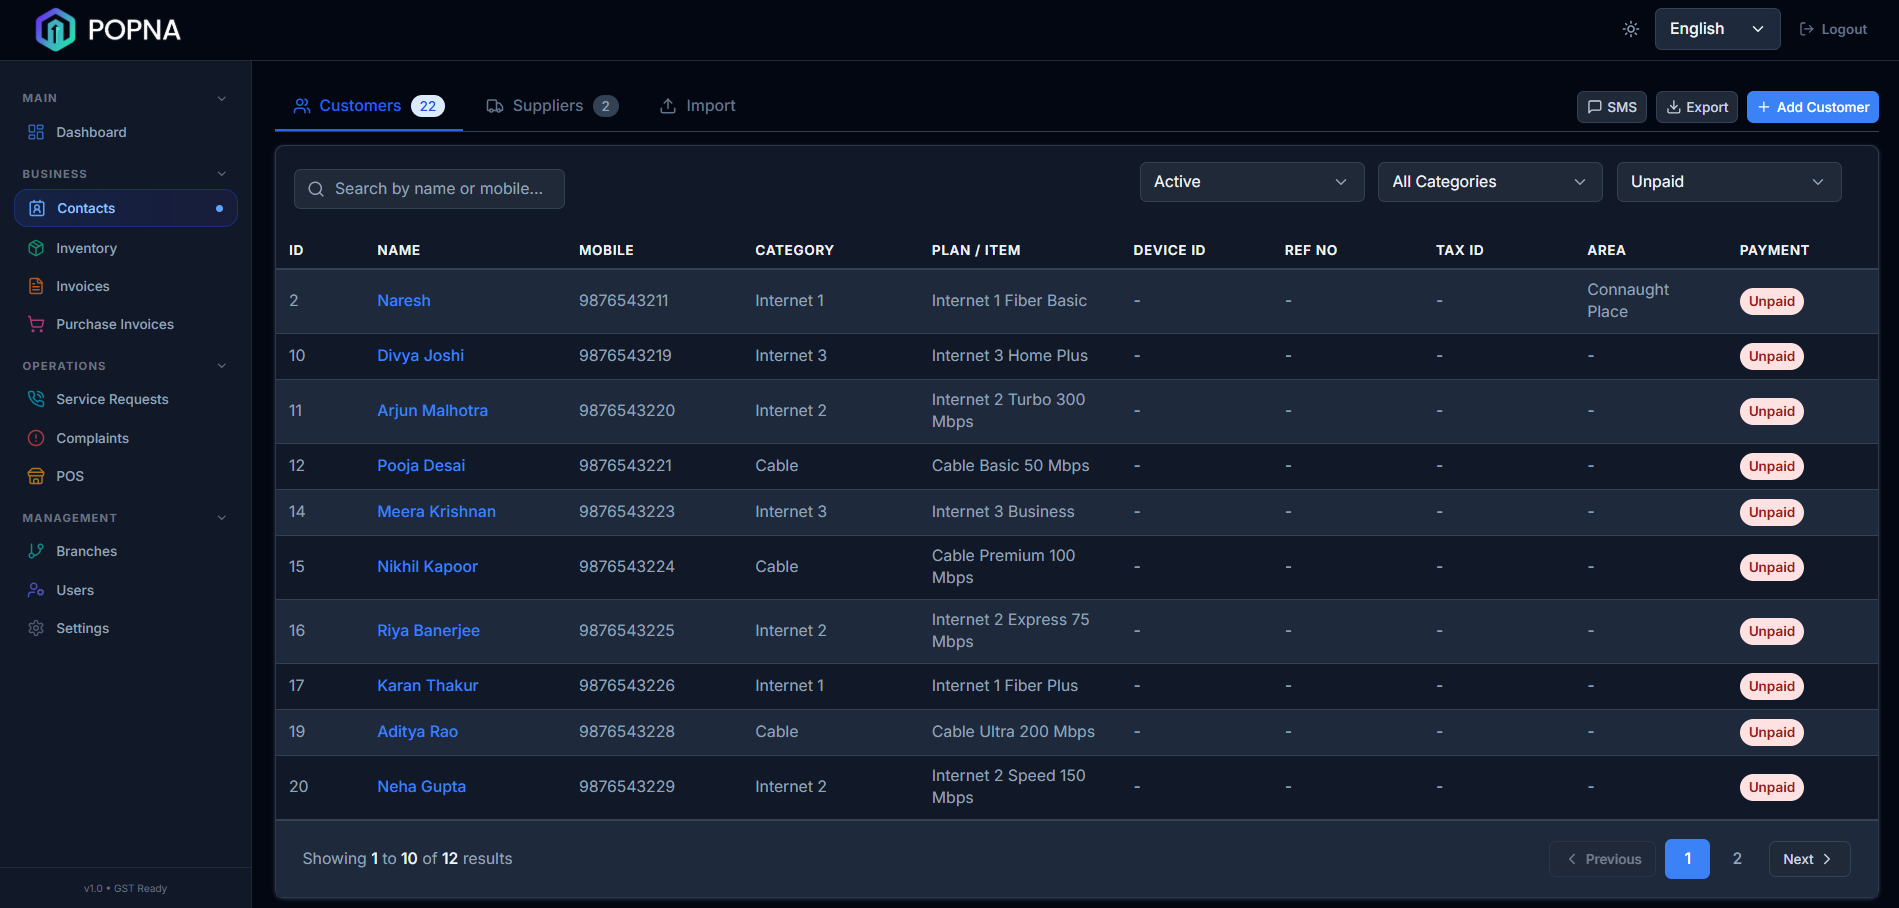
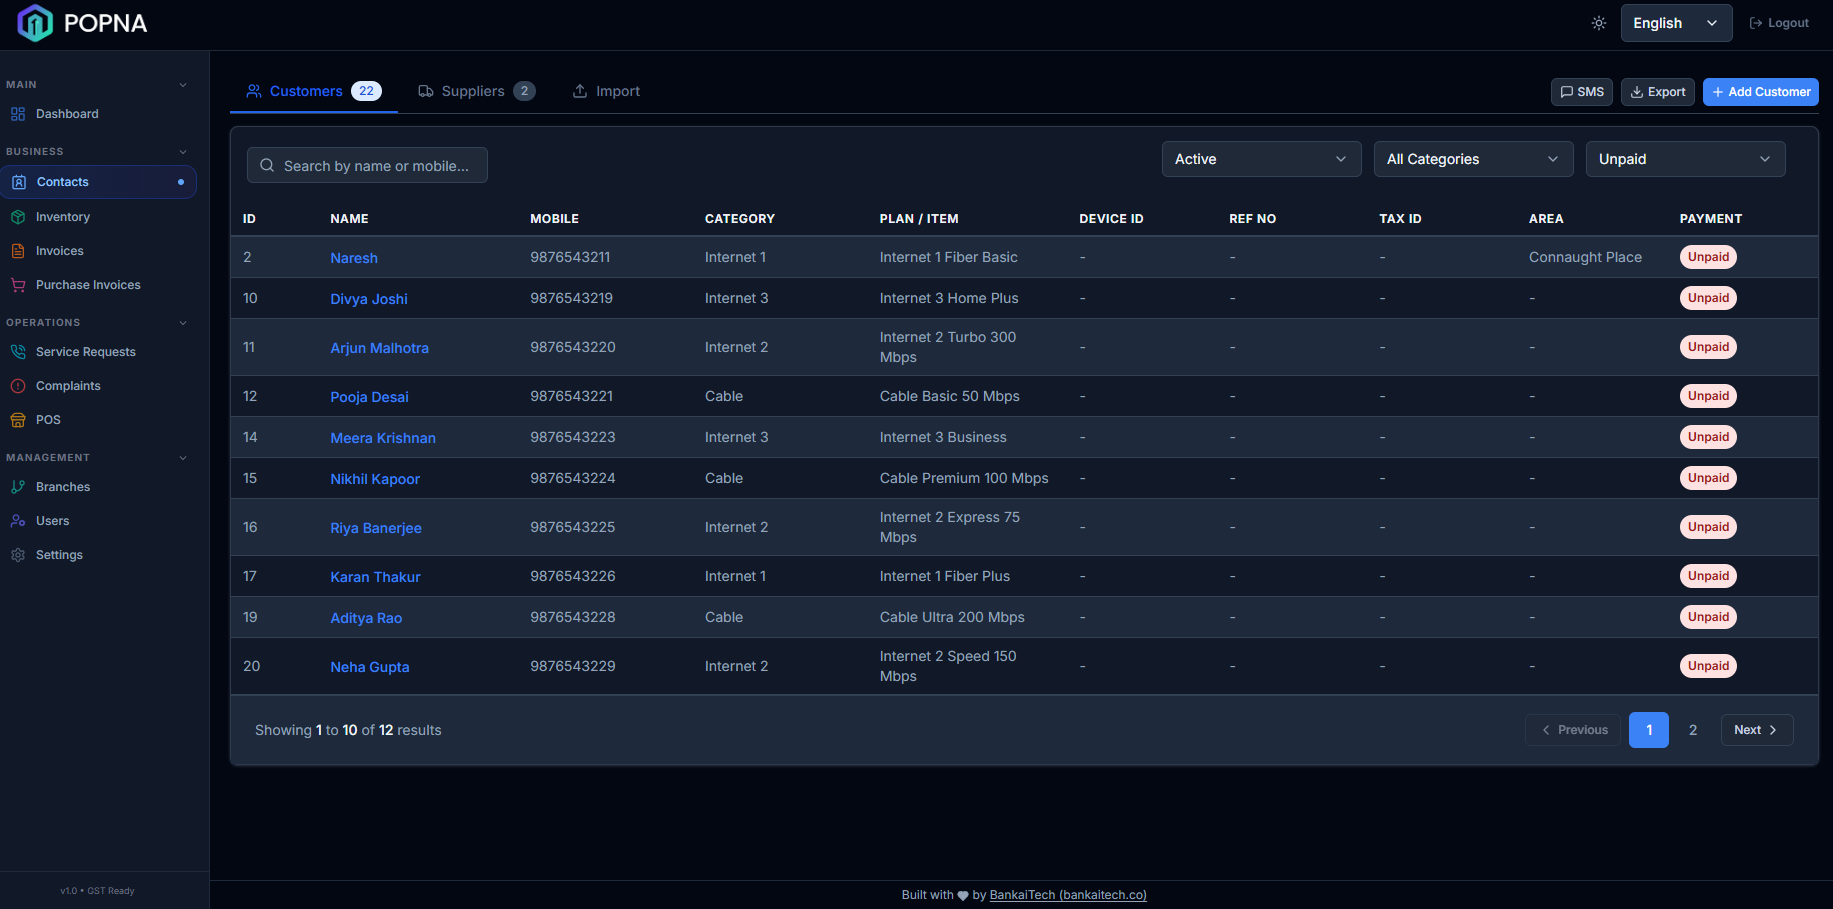
feat: Introduce initial application setup with internationalization, PWA support, and core pages.

diff --git a/src/pages/public/HomePage.tsx b/src/pages/public/HomePage.tsx
@@ -71,13 +71,13 @@ const HomePage = () => {
       },
       { threshold: 0.5, rootMargin: "-10% 0px -20% 0px" }
     );
-    
+
     // Slight delay to allow DOM to render before observing
     const timer = setTimeout(() => {
       const blocks = document.querySelectorAll('.showcase-trigger');
       blocks.forEach((block) => observer.observe(block));
     }, 100);
-    
+
     return () => {
       clearTimeout(timer);
       observer.disconnect();
@@ -247,13 +247,13 @@ const HomePage = () => {
 
       {/* ════ Module Showcase — In-Place Scroll Alternating ════ */}
       <section id="showcase" className="relative bg-black text-white">
-        {/* Track for scroll height - roughly 3 viewport heights */}
-        <div className="relative h-[300vh]">
-          
+        {/* Track for scroll height - roughly 6 viewport heights */}
+        <div className="relative h-[600vh]">
+
           {/* Sticky container that locks into view */}
           <div className="sticky top-0 h-screen w-full flex items-center overflow-hidden">
             <div className="max-w-7xl mx-auto px-4 sm:px-6 lg:px-8 w-full h-full flex flex-col justify-center py-12 md:py-24">
-              
+
               <div className="text-center mb-8 md:mb-12">
                 <h2 className="text-3xl sm:text-5xl lg:text-6xl font-extrabold tracking-tight">
                   {t('home.showcase.title', 'Platform Features')}
@@ -281,13 +281,31 @@ const HomePage = () => {
                     img: '/POS Module.png',
                     icon: ShoppingCart,
                   },
+                  {
+                    title: t('home.features.inventory', 'Inventory Module'),
+                    desc: t('home.features.inventoryDesc', 'Track stock levels, manage variations, and handle multiple locations seamlessly.'),
+                    img: '/Inventory Module.png',
+                    icon: Package,
+                  },
+                  {
+                    title: t('home.features.labels', 'Label Print'),
+                    desc: t('home.features.labelsDesc', 'Design and print custom barcode labels for all your products effortlessly.'),
+                    img: '/Label Print.png',
+                    icon: Zap,
+                  },
+                  {
+                    title: t('home.features.thermal', 'POS Thermal Bill'),
+                    desc: t('home.features.thermalDesc', 'Quickly print professional thermal receipts for faster checkout experiences.'),
+                    img: '/POS Thermal Bill.png',
+                    icon: FileText,
+                  },
                 ].map((item, idx) => {
                   const Icon = item.icon;
                   const isActive = activeShowcaseIdx === idx;
                   const isEven = idx % 2 === 0;
-                  
+
                   return (
-                    <div 
+                    <div
                       key={idx}
                       className={cn(
                         "absolute inset-0 flex flex-col items-center gap-8 lg:gap-16 transition-all duration-1000 ease-[cubic-bezier(0.25,1,0.5,1)] w-full h-full",
@@ -317,12 +335,12 @@ const HomePage = () => {
                           "inline-flex items-center gap-4 mb-4 sm:mb-6",
                           isEven ? "md:flex-row" : "md:flex-row-reverse"
                         )}>
-                           <div className="w-12 h-12 sm:w-16 sm:h-16 rounded-2xl bg-white/10 flex items-center justify-center backdrop-blur-md border border-white/20 shrink-0 shadow-xl">
-                             <Icon className="w-6 h-6 sm:w-8 sm:h-8 text-white" />
-                           </div>
-                           <h3 className="text-3xl sm:text-4xl lg:text-5xl font-extrabold tracking-tight">
-                             {item.title}
-                           </h3>
+                          <div className="w-12 h-12 sm:w-16 sm:h-16 rounded-2xl bg-white/10 flex items-center justify-center backdrop-blur-md border border-white/20 shrink-0 shadow-xl">
+                            <Icon className="w-6 h-6 sm:w-8 sm:h-8 text-white" />
+                          </div>
+                          <h3 className="text-3xl sm:text-4xl lg:text-5xl font-extrabold tracking-tight">
+                            {item.title}
+                          </h3>
                         </div>
                         <p className="text-lg sm:text-xl lg:text-2xl text-white/70 leading-relaxed font-light max-w-sm sm:max-w-none md:mx-0">
                           {item.desc}
@@ -339,11 +357,11 @@ const HomePage = () => {
 
           {/* Invisible Scroll Triggers placed along the track */}
           <div className="absolute top-0 left-0 w-full h-full pointer-events-none flex flex-col">
-            {[0, 1, 2].map((idx) => (
+            {[0, 1, 2, 3, 4, 5].map((idx) => (
               <div key={idx} className="h-screen w-full showcase-trigger" data-index={idx} />
             ))}
           </div>
-          
+
         </div>
       </section>
 

diff --git a/src/pages/Login.tsx b/src/pages/Login.tsx
@@ -4,8 +4,9 @@ import { useTranslation } from 'react-i18next';
 import { useAuthStore } from '@/store/useAuthStore';
 import { Lock, User, ArrowRight, Building2, ArrowLeft, Eye, EyeOff, Mail, Phone, Briefcase } from 'lucide-react';
 import FooterCredit from '@/components/FooterCredit';
-import Logo from '@/components/Logo';
+
 import LanguageSwitcher from '@/components/LanguageSwitcher';
+import { useTheme } from '@/components/ThemeProvider';
 import { signupRequestsApi } from '@/api/signupRequests';
 import { showSuccess, showError } from '@/utils/toast';
 
@@ -43,17 +44,27 @@ const Login = () => {
   });
 
   // Force light mode while on the login page and restore previous theme on unmount
+  const { resolvedTheme } = useTheme();
   const prevThemeRef = useRef<'light' | 'dark' | null>(null);
 
   useEffect(() => {
     const root = document.documentElement;
-    prevThemeRef.current = root.classList.contains('dark') ? 'dark' : 'light';
+    // Capture the current theme only once on mount
+    if (!prevThemeRef.current) {
+      prevThemeRef.current = root.classList.contains('dark') ? 'dark' : 'light';
+    }
+
+    // Always enforce light mode while this component is mounted
     root.classList.remove('dark');
     const meta = document.querySelector('meta[name="theme-color"]');
     if (meta) {
       meta.setAttribute('content', '#2563eb');
     }
+
     return () => {
+      // We only want to restore on true unmount, but Strict Mode unmounts and remounts
+      // If we navigate away, we restore. In StrictMode, it might flash. 
+      // Actually, relying on ThemeProvider is better, but this handles DOM.
       if (prevThemeRef.current === 'dark') {
         root.classList.add('dark');
         const metaTag = document.querySelector('meta[name="theme-color"]');
@@ -62,7 +73,7 @@ const Login = () => {
         }
       }
     };
-  }, []);
+  }, [resolvedTheme]); // Re-run if ThemeProvider tries to apply dark mode again
 
   useEffect(() => {
     initialize();
@@ -196,18 +207,22 @@ const Login = () => {
                 : t('login.signInToContinue', 'Sign in to manage your business, invoices, contacts and more - all in one powerful platform.')}
             </p>
           </div>
-          <div className="space-y-4">
+          <div className="space-y-3">
             {[
               t('home.features.invoicing', 'GST Invoicing'),
               t('home.features.contacts', 'Contact Management'),
               t('home.features.pos', 'Point of Sale'),
               t('home.benefits.multiLang', 'Multi-Language Support'),
+              t('home.features.inventory', 'Inventory Module'),
+              t('home.features.labels', 'Label Print'),
+              t('home.features.thermal', 'POS Thermal Bill'),
+              t('home.features.reports', 'Business Reports'),
             ].map((feat) => (
-              <div key={feat} className="flex items-center gap-3">
-                <div className="w-5 h-5 rounded-full bg-white/20 flex items-center justify-center shrink-0">
-                  <ArrowRight className="w-3 h-3 text-white" />
+              <div key={feat} className="flex items-center gap-2.5">
+                <div className="w-4 h-4 rounded-full bg-white/20 flex items-center justify-center shrink-0">
+                  <ArrowRight className="w-2.5 h-2.5 text-white" />
                 </div>
-                <span className="text-sm text-white/75">{feat}</span>
+                <span className="text-xs text-white/80 font-medium">{feat}</span>
               </div>
             ))}
           </div>
@@ -236,7 +251,7 @@ const Login = () => {
         <div className="flex-1 flex items-center justify-center p-6 sm:p-10">
           <div className="w-full max-w-md">
             <div className="flex justify-center mb-8 lg:hidden">
-              <Logo className="h-12 w-auto" />
+              <img src="/Popna.png" alt="Popna" className="h-12 w-auto" />
             </div>
 
             {!isSignup ? (

diff --git a/src/components/ThemeProvider.tsx b/src/components/ThemeProvider.tsx
@@ -26,7 +26,10 @@ function getSystemTheme(): 'light' | 'dark' {
 
 function applyTheme(resolved: 'light' | 'dark') {
     const root = document.documentElement;
-    if (resolved === 'dark') {
+    const isPublicRoute = typeof window !== 'undefined' &&
+        (window.location.pathname === '/' || window.location.pathname === '/login');
+
+    if (resolved === 'dark' && !isPublicRoute) {
         root.classList.add('dark');
     } else {
         root.classList.remove('dark');
@@ -34,7 +37,7 @@ function applyTheme(resolved: 'light' | 'dark') {
     // Update theme-color meta tag
     const meta = document.querySelector('meta[name="theme-color"]');
     if (meta) {
-        meta.setAttribute('content', resolved === 'dark' ? '#0f172a' : '#2563eb');
+        meta.setAttribute('content', (resolved === 'dark' && !isPublicRoute) ? '#0f172a' : '#2563eb');
     }
 }
 

diff --git a/dev-dist/sw.js b/dev-dist/sw.js
@@ -85,7 +85,7 @@ define(['./workbox-eda88673'], (function (workbox) { 'use strict';
     "revision": "3ca0b8505b4bec776b69afdba2768812"
   }, {
     "url": "index.html",
-    "revision": "0.qsa4o5f7id4"
+    "revision": "0.6q31ldkvepo"
   }], {});
   workbox.cleanupOutdatedCaches();
   workbox.registerRoute(new workbox.NavigationRoute(workbox.createHandlerBoundToURL("index.html"), {
